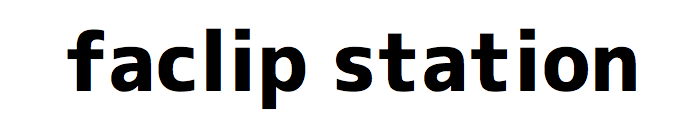
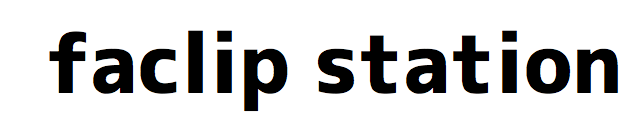
mock-v3

Changed region(s): [[0.0625, 0.2, 0.9688, 0.925]]

diff --git a/public/index.html b/public/index.html
@@ -8,7 +8,7 @@
   </head>
   <body>
 
-<div align="center"><img src="faclipstation.png" width="200"/></div><br>
+<div align="center"><img src="faclipstation.png" width="150"/></div>
 <!--  	 
  	 <div style="background: #FFB6C1; width:630px; border: 1px solid #CC0000; height:100％; padding-left:10px; padding-right:10px; padding-top:10px; padding-bottom:10px;">
  	 	ALL
